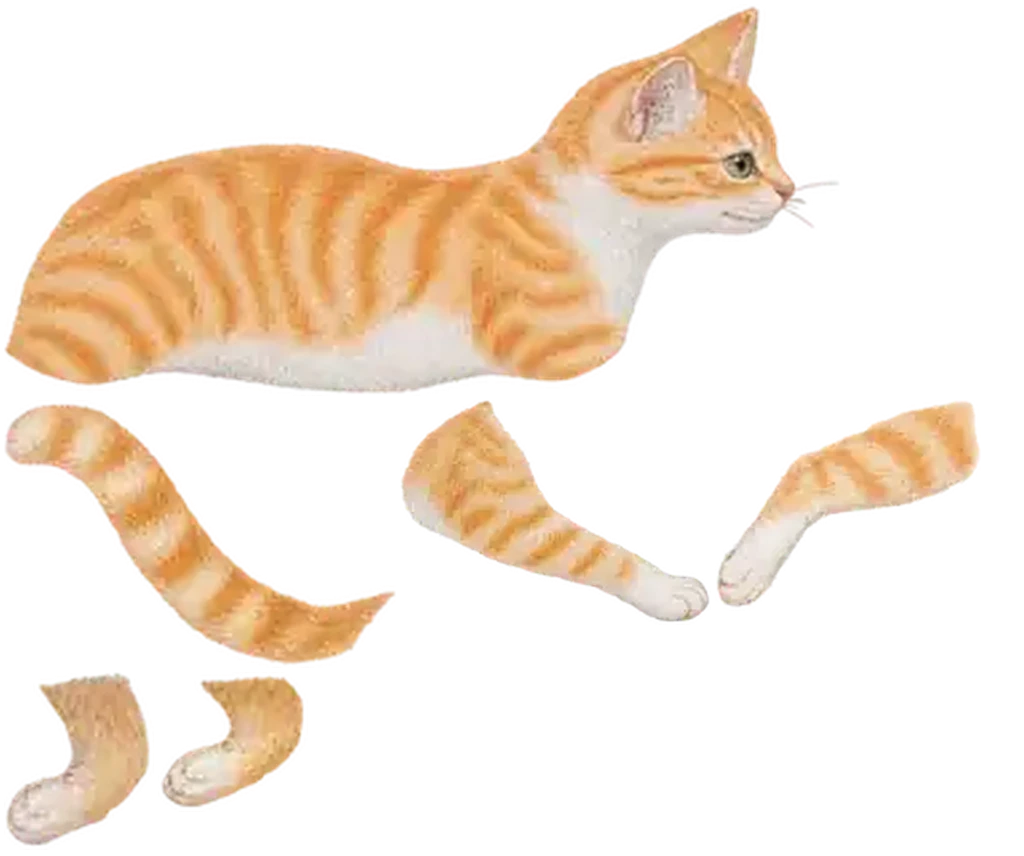
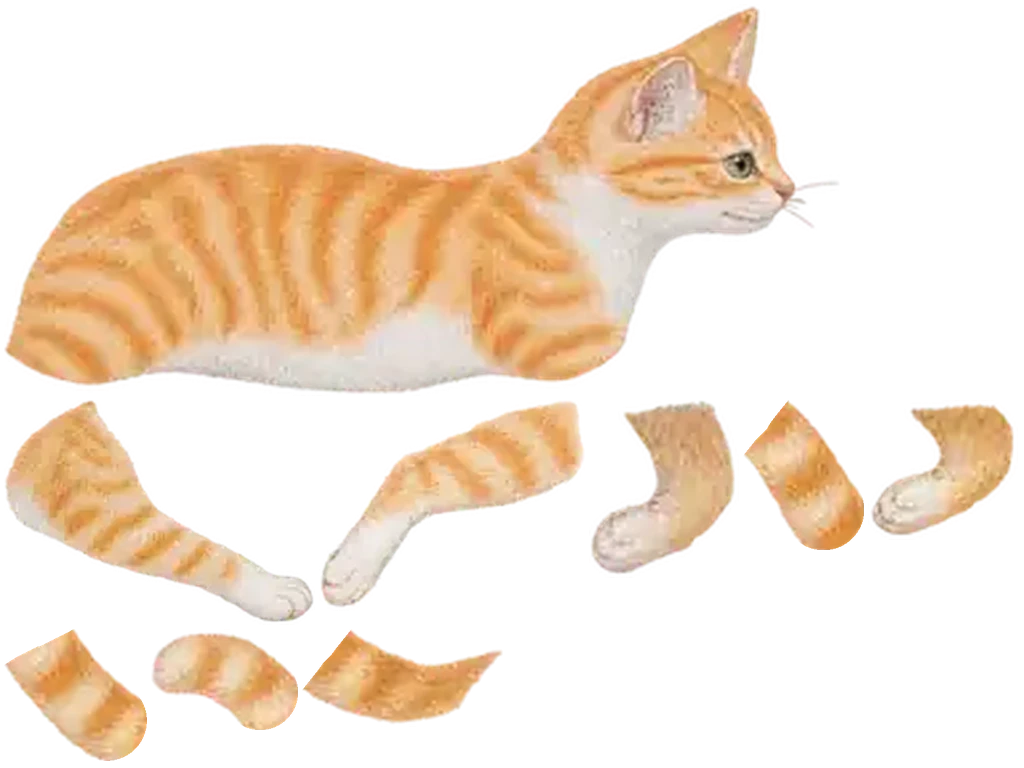
CATTAIL: publish segmented orange-cat tail and remove recolors

diff --git a/sites/cattail/assets/cattail-cat-variants.js b/sites/cattail/assets/cattail-cat-variants.js
@@ -1,3 +1,3 @@
 /* CATTAIL running-cat variants. Generated by tools/cattail/build_cat.py registry; do not edit by hand. */
-window.CATTAIL_CAT_VARIANTS={"tabby-legacy":{"id":"tabby-legacy","label":"橘白虎斑貓","atlas":"assets/cats/tabby-legacy/atlas.webp?v=31b83a64","order":["tail","rearFar","frontFar","frontNear","body","rearNear"],"pieces":{"body":{"src":[4,4,836,392],"scale":0.49978,"joint":[0,0],"at":[140.94,68.12]},"frontNear":{"src":[400,400,311,225],"scale":0.4994,"joint":[62.58,50.62],"at":[415,225]},"frontFar":{"src":[4,672,150,178],"scale":0.5,"joint":[70,19.99],"at":[425,230]},"rearNear":{"src":[715,400,266,211],"scale":0.50047,"joint":[213.55,26.92],"at":[225.94,230]},"rearFar":{"src":[158,672,150,140],"scale":0.5,"joint":[51.88,18.12],"at":[240.94,230.94]},"tail":{"src":[4,400,392,268],"scale":0.50064,"joint":[383.89,238.01],"at":[203.12,188.12]}}}};
+window.CATTAIL_CAT_VARIANTS={"tabby-legacy":{"id":"tabby-legacy","label":"橘白虎斑貓","atlas":"assets/cats/tabby-legacy/atlas.webp?v=724d5aae","order":["tail1","tail2","tail3","tail4","rearFar","frontFar","frontNear","body","rearNear"],"pieces":{"body":{"src":[4,4,836,392],"scale":0.49978,"joint":[0,0],"at":[140.94,68.12]},"frontNear":{"src":[4,400,311,225],"scale":0.4994,"joint":[62.58,50.62],"at":[415.0,225.0]},"frontFar":{"src":[589,400,150,178],"scale":0.5,"joint":[70.0,19.99],"at":[425.0,230.0]},"rearNear":{"src":[319,400,266,211],"scale":0.50047,"joint":[213.55,26.92],"at":[225.94,230.0]},"rearFar":{"src":[868,400,150,140],"scale":0.5,"joint":[51.88,18.12],"at":[240.94,230.94]},"tail1":{"src":[302,629,201,98],"scale":0.50062,"joint":[117.98,66.79],"at":[165.62,187.5]},"tail2":{"src":[4,629,143,132],"scale":0.50044,"joint":[102.41,91.34],"at":[122.19,171.56]},"tail3":{"src":[743,400,121,150],"scale":0.49845,"joint":[80.25,109.38],"at":[90.31,138.12]},"tail4":{"src":[151,629,147,101],"scale":0.49957,"joint":[108.84,62.97],"at":[65.31,100.62]}},"chains":{"tail":["tail1","tail2","tail3","tail4"]}}};
 window.CATTAIL_CAT_DEFAULT="random";
